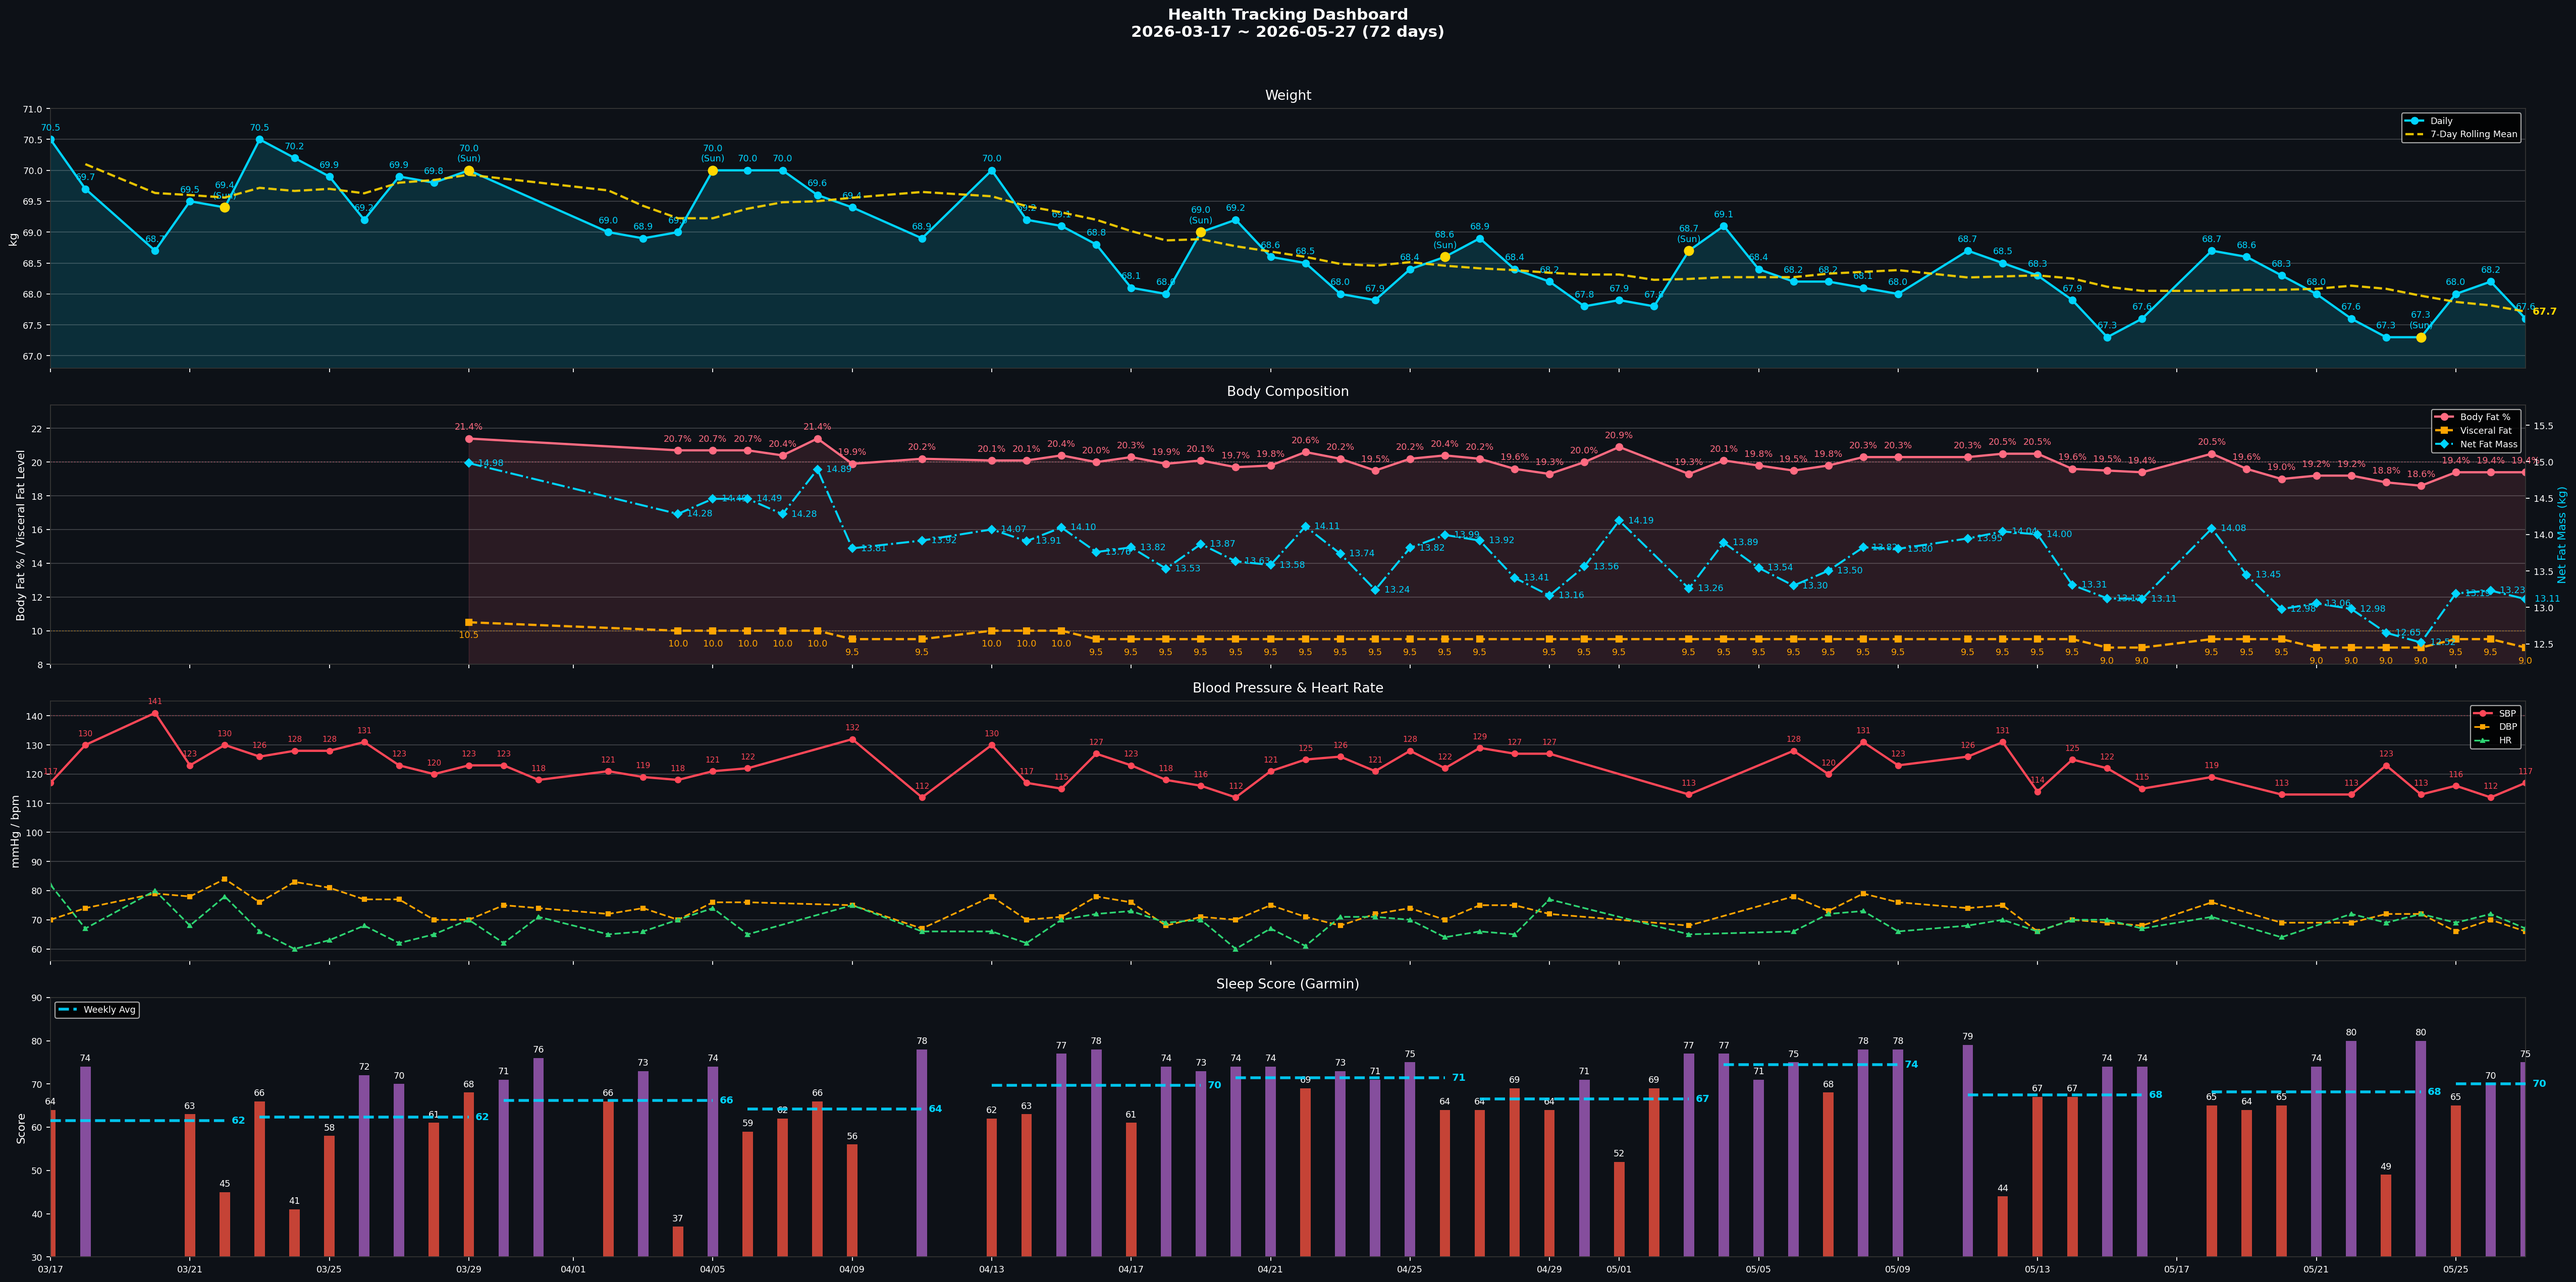
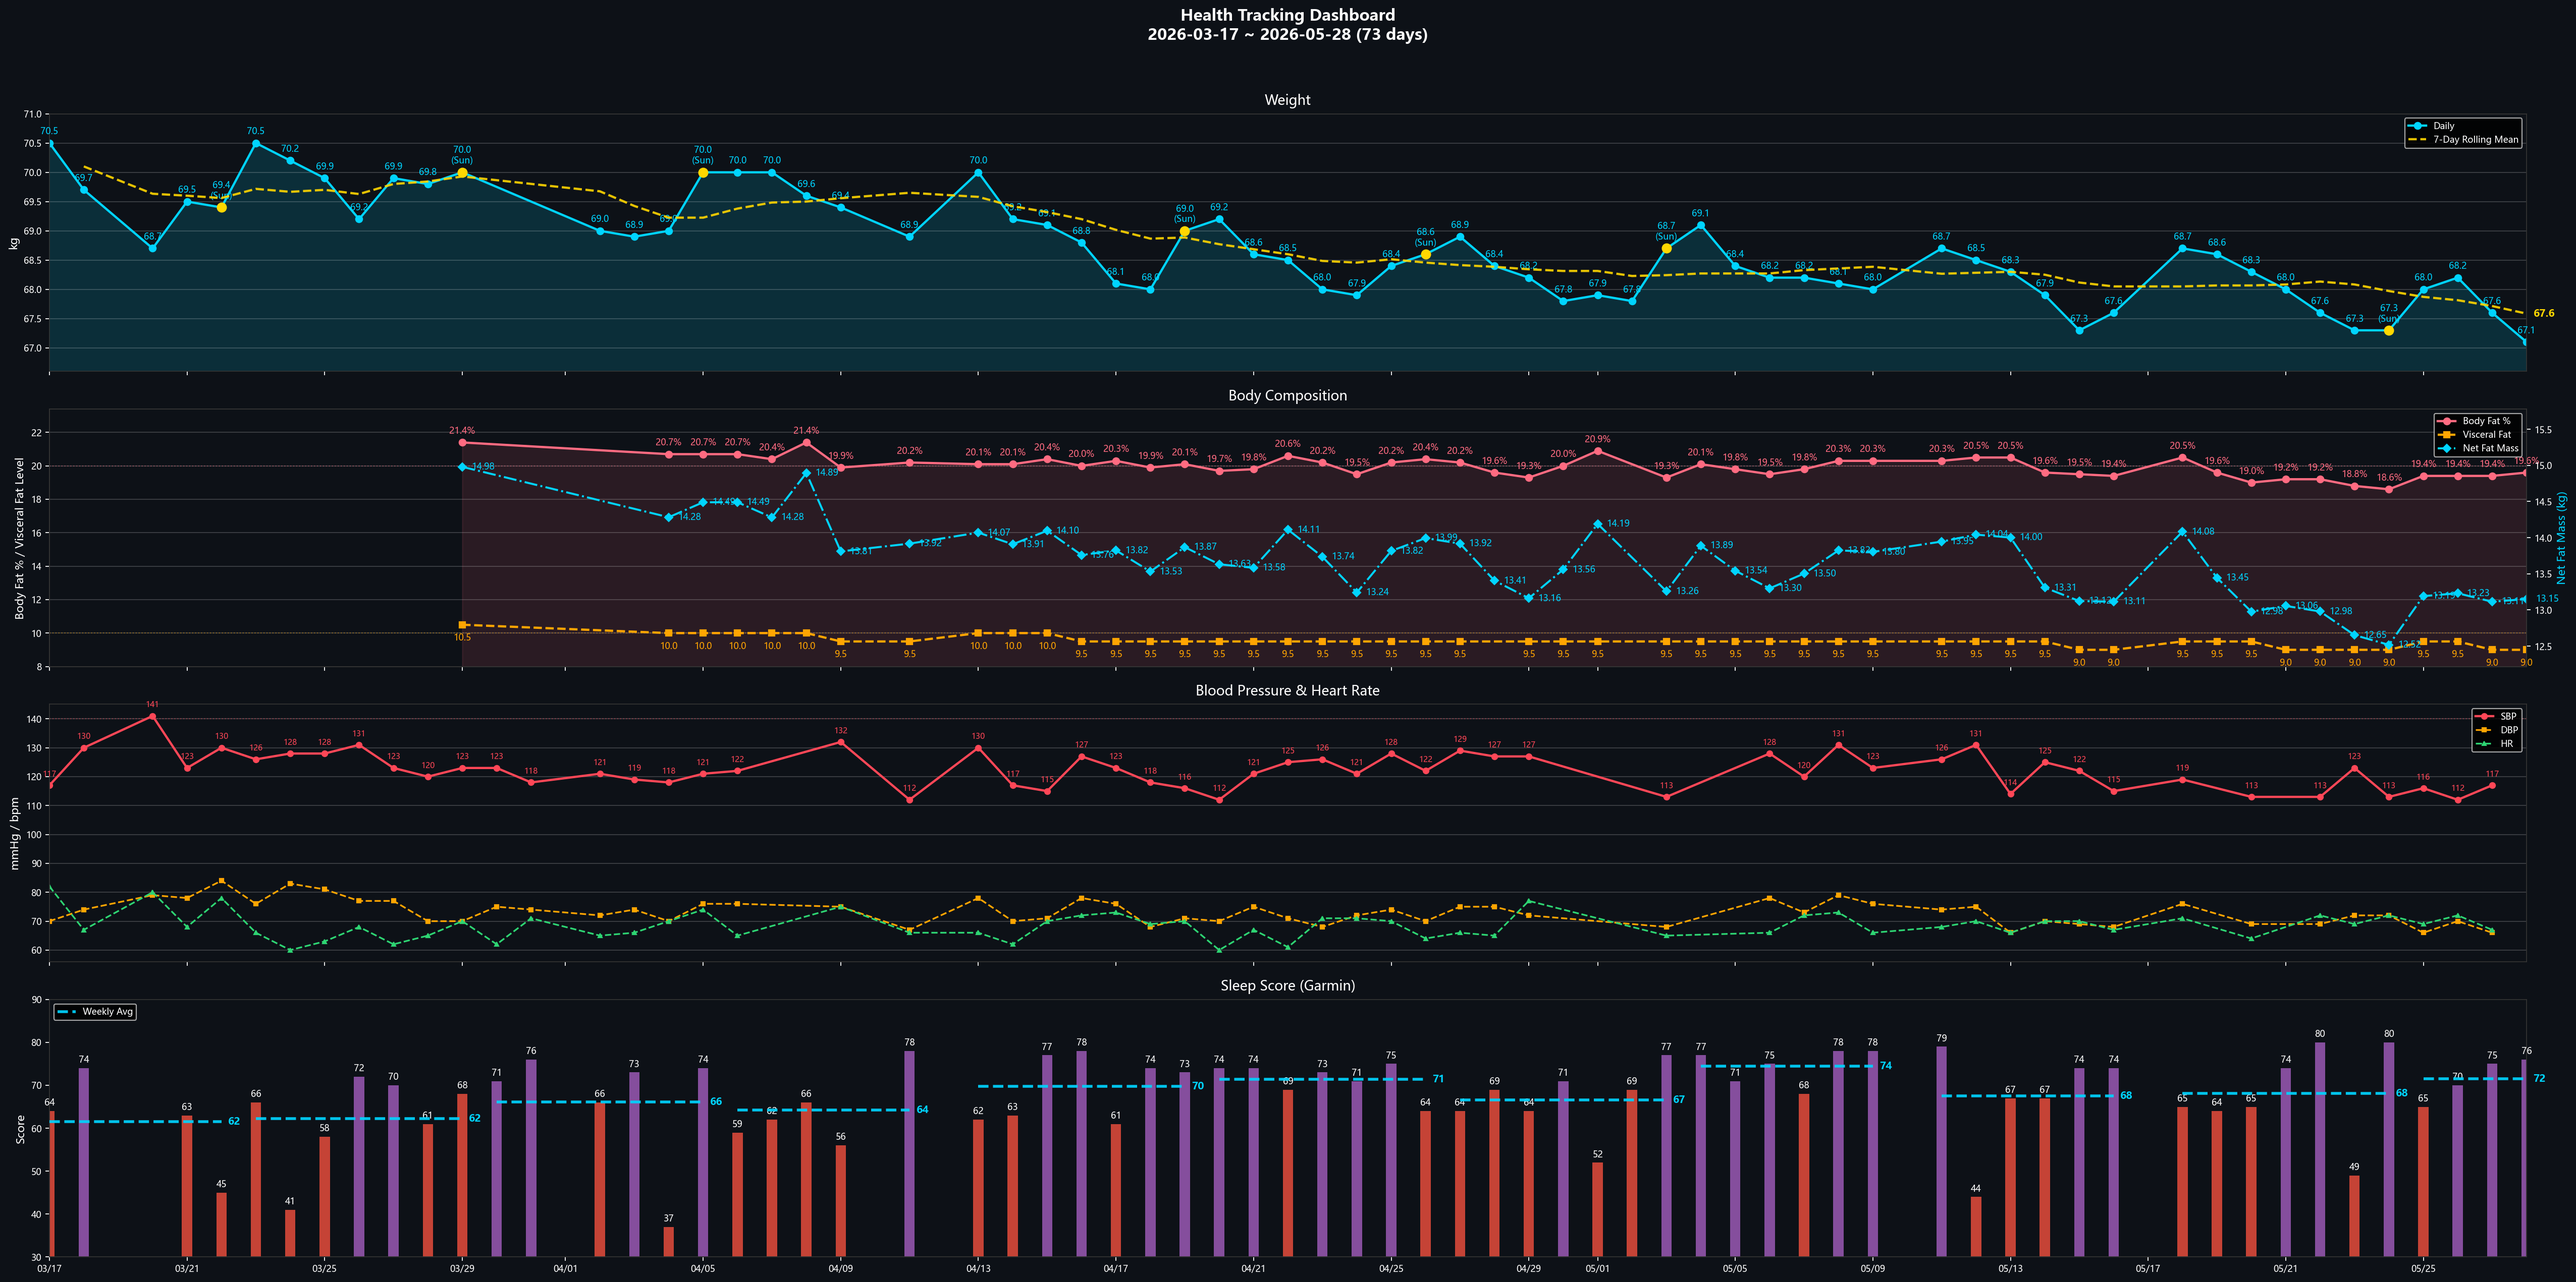
daily check-in 2026-05-28：體重67.1/體脂19.6、Sleep76、SpO2 nadir 95%(T90=0%) 連兩晚最佳
- 睡眠 7h1m、RHR 58、主觀恢復3/5、身體信號清
- SpO2連兩晚T90=0%，38晚最佳；7晚最低94/93/87/89/78/81/79
- 未量血壓；昨日飲水1.20L、活動112kcal
- 更新 W22 weekly、dashboard、data.js

diff --git a/data.js b/data.js
@@ -14,8 +14,8 @@ window.HC_DATA = {
     lede:    { en: "Sleep, BP, lipids, uric acid — one shared metabolic root. Lifestyle stacks first; medication only after lifestyle plateaus.",
                zh: "睡眠、血壓、血脂、尿酸——共享同一個代謝根源。生活方式介入優先，等到效果平台期再考慮藥物。" },
     progressLbl: { en: "Weight progress · 70 → 65 kg", zh: "體重進度 · 70 → 65 公斤" },
-    progressMeta: { en: "Day 72 · 67.3 kg · Sat official (5/23)", zh: "第 72 天 · 67.3 公斤 · 週六正式（5/23）" },
-    startDate: { en: "Start date · Mar 17, 2026 · Last sync 5/27", zh: "起始日期 · 2026 年 3 月 17 日 · 最後同步 5/27" },
+    progressMeta: { en: "Day 73 · 67.3 kg · Sat official (5/23)", zh: "第 73 天 · 67.3 公斤 · 週六正式（5/23）" },
+    startDate: { en: "Start date · Mar 17, 2026 · Last sync 5/28", zh: "起始日期 · 2026 年 3 月 17 日 · 最後同步 5/28" },
     startWeight: 70,
     targetWeight: 65,
     currentWeight: 67.3,
@@ -50,7 +50,7 @@ window.HC_DATA = {
     },
     {
       sys: "sleep", name: { en: "Sleep Score", zh: "睡眠分數" },
-      val: "75", unit: "Garmin",
+      val: "76", unit: "Garmin",
       delta: { en: "5/4 · OSA flag: T90 18.4% (severe)", zh: "5/4 · OSA 紅旗：T90 18.4%（重度）" },
       cadence: { en: "Daily · Garmin", zh: "每日 · Garmin" },
       status: "warn",
@@ -918,14 +918,14 @@ window.HC_DATA = {
   tracker: {
     // [SBP, DBP] — gaps filled with prior reading
     bp: [
-      [114,66], [125,70], [122,69], [115,68], [119,76], [119,76], [113,69], [113,69], [113,69], [123,72], [113,72], [116,66], [112,70], [117,66],
+      [125,70], [122,69], [115,68], [119,76], [119,76], [113,69], [113,69], [113,69], [123,72], [113,72], [116,66], [112,70], [117,66], [117,66],
     ],
     // daily weight (kg)
-    weight: [68.3, 67.9, 67.3, 67.6, 68.7, 68.6, 68.3, 68, 67.6, 67.3, 67.3, 68, 68.2, 67.6],
+    weight: [67.9, 67.3, 67.6, 68.7, 68.6, 68.3, 68, 67.6, 67.3, 67.3, 68, 68.2, 67.6, 67.1],
     // Garmin Sleep Score
-    sleep:  [67, 67, 74, 74, 65, 64, 65, 74, 80, 49, 80, 65, 70, 75],
+    sleep:  [67, 74, 74, 65, 64, 65, 74, 80, 49, 80, 65, 70, 75, 76],
     // Body Battery waking
-    bb:     [42, 34, 51, 63, 48, 62, 54, 61, 56, 34, 59, 55, 53, 64],
+    bb:     [34, 51, 63, 48, 62, 54, 61, 56, 34, 59, 55, 53, 64, 59],
     // SpO2 nightly nadir % (last 14 days, parallel to bp/weight/sleep/bb).
     // Earlier nights null until sync_data_js.py backfills; banner only uses trailing values.
     spo2Nadir: [null, null, null, null, null, 84, 79, 87, 85, 84, 84, 86, 82, 84],

diff --git a/reviews/daily/2026-05-28.md b/reviews/daily/2026-05-28.md
@@ -1,0 +1,103 @@
+# 晨間健康紀錄 — 2026-05-28
+
+*3 分鐘。起床後立即完成。記錄，不分析。*
+
+---
+
+## 體重 / 體組成
+
+**今日：67.1 kg**
+**體脂率：19.6 %**
+**內臟脂肪等級：9.0**
+**腰圍 (WHO midpoint)：— cm**（最下肋骨下緣 + 髂嵴頂端兩點水平中點環繞，通常在肚臍上方 2-5 cm；**與健檢歷史可比**；目標維持 ≤ 83、推進至 < 80 cm）
+**腰圍 (最大腹圍)：— cm**（自然站立、吐氣末、不收腹，軟尺上下移動找最大讀數；通常在肚臍 0 至 -4 cm；**對內臟脂肪變化最敏感**）
+
+*每週六早晨為正式體重紀錄（排尿後、進食前；連 5 個工作日後、週末大餐前的真實低點）。其他日可選填。*
+*腰圍每日量（起床排尿後、進食前）。量兩個位置（WHO + max），方向應一致；若差距 > 3 cm 持續，考慮以 max 為主追蹤指標。*
+*WHO midpoint：科學標準，國健署 / 健檢 / metabolic syndrome 診斷用；最大腹圍：內臟脂肪 visceral fat correlation 最強。*
+
+---
+
+## 血壓（晨間）
+
+*起床後 1 小時內，上完廁所、進食前。坐下安靜 5 分鐘，連量兩次取第二次。*
+
+| 次數 | 收縮壓 | 舒張壓 | 心率 |
+|------|--------|--------|------|
+| 第一次 | | | |
+| 第二次 | 今日未量 | | |
+
+---
+
+## 睡眠狀態
+
+**Garmin 偵測入睡：** 21:27
+**實際上床：**
+**實際起床：** 05:13
+**中途醒來：** 無
+**Garmin Sleep Score：** 76 / 100
+**Garmin Body Battery 起床值：** 59
+**主觀恢復感：** 3 / 5（1=極度疲憊, 5=精力充沛）
+**入睡 latency：** —
+
+### SpO2 夜間最低（7 晚趨勢）
+
+| 日期 | -6 | -5 | -4 | -3 | -2 | -1 | 今晨 |
+|------|----|----|----|----|----|----|------|
+| 日期 | 05-22 | 05-23 | 05-24 | 05-25 | 05-26 | 05-27 | 05-28 |
+| 最低 % | 79 | 81 | 78 | 89 | 87 | 93 | 94 |
+
+**今晨日均 SpO2：** 97.0%
+**< 88% 連續晚數：** 0（OSA 紅旗門檻：連 3 晚 < 88% → 強烈建議 PSG）
+
+**SpO2 全夜圖（含 hypnogram 條帶）：** ![spo2](spo2/spo2_desat_2026-05-28.png)
+**SpO2 趨勢圖：** ![trend](spo2/spo2_desat_trend.png)
+**SpO2 全夜 Heatmap（28+ 晚 Venu 4 cohort）：** ![heatmap](spo2/spo2_heatmap_all_nights.png)
+**SpO2 × 睡眠分期 7 晚疊圖：** ![hypno7](spo2/spo2_hypnogram_7night_2026-05-28.png)
+
+*Sleep Score < 65 或 Body Battery < 50 連續三天 → 重新檢視睡眠修復方案。*
+
+---
+
+## 昨日回顧
+
+**實際飲水量：** 1.20 L（目標 ≥ 2.5L；高尿酸最佳 2.8–3.0L；17:00 前完成 60-70%）
+**昨日活動消耗：** 112 kcal（主動 + BMR；自動讀自 Garmin daily summary 活動區塊）
+  - > 300 kcal → 今日可彈性增加 200-300 kcal 攝取
+  - < 100 kcal → 今日加強運動（補一段 Zone 2 走路 30 分）
+**昨日 Na / K / Na-K ratio：** — mg / — mg / —（無 food 紀錄檔）
+  - Na/K < 0.5 ✅ / 0.5-0.6 🟢 / 0.6-0.8 🟡 / > 0.8 🟠（INTERSALT 1988）
+  - 連 3 天 ≥ 0.8 → 首選減鈉（自煮蛋取代茶葉蛋 −440 mg）或加 K（香蕉 +422 mg）
+
+---
+
+## 身體信號
+
+*任何張力、疼痛、疲勞、異常 — 或「清」。記位置、性質、強度。*
+
+| 部位 | 性質 | 強度 (0-10) |
+|------|------|-------------|
+| 清 | — | 0 |
+
+---
+
+## 今日計畫速記
+
+- [ ] 飲水目標：2.5 L（建議 2.5–3.0L；錨點 09:30 ≥1.0L / 13:30 ≥2.0L / 17:00 截止 2.5L）
+- [ ] 補充品（核心，2026-05-11 v2）：如常
+  - 早餐（06:00）：D3 2000 IU + **K2 MK-7 180 mcg** + **L-Citrulline 4 g** + 益生菌
+  - 午餐前 30 min：Psyllium 5 g + 350 mL 水
+  - 晚餐前 30 min：Psyllium 5 g + 350 mL 水
+  - 晚餐後：魚油 ×4（拆 18:30 ×2 + 19:30 ×2）
+  - 睡前（21:00）：鎂甘胺酸 400 mg + 酸櫻桃 1000-2000 mg + **Glycine 純粉 3 g**
+  - 茶飲：洛神花 ×2 杯（早 + 14:00 前）
+  - 食物層：南瓜籽 30 g（15:30）+ **菇蕈 100-130 g/天**（午 30-50 + 晚 50-80）
+  - ⏸ 待定：NAC 600 mg × 2（待 PSG 結果）
+- [ ] 運動（17:00 固定）：走路（Zone 2，30 分）
+- [ ] 活動度/伸展（09:30 + 20:30 兩次錨點）
+- [ ] Wind-down（20:00 燈光降 + 螢幕濾鏡，液體截止）
+- [ ] 上床 21:30 / 熄燈 22:00（TST 目標 7h+）
+
+---
+
+*Filed: reviews/daily/2026-05-28.md*

diff --git a/reviews/weekly/2026-W22.md b/reviews/weekly/2026-W22.md
@@ -31,9 +31,9 @@
 
 |  | 一 | 二 | 三 | 四 | 五 | 六 | 日 |
 |--|----|----|----|----|----|----|-----|
-| 體重 (kg) | 68.0 | 68.2 | 67.6 | | | | |
-| 體脂率 (%) | 19.4 | 19.4 | 19.4 | | | | |
-| 內臟脂肪 | 9.5 | 9.5 | 9.0 | | | | |
+| 體重 (kg) | 68.0 | 68.2 | 67.6 | 67.1 | | | |
+| 體脂率 (%) | 19.4 | 19.4 | 19.4 | 19.6 | | | |
+| 內臟脂肪 | 9.5 | 9.5 | 9.0 | 9.0 | | | |
 | **腰圍 WHO (cm)** | | | | | | | |
 | **腰圍 max (cm)** | | | | | | | |
 
@@ -72,7 +72,7 @@
 | 05-25 (一) | 21:43 | 05:13 | 無 | 65 | 55 | 3 |
 | 05-26 (二) | 21:40 | 04:19 | 2次+ | 70 | 53 | 3 |
 | 05-27 (三) | 21:35 | 03:52 | 1次 | 75 | 64 | 3 |
-| 05-28 (四) | | | | | | |
+| 05-28 (四) | 21:27 | 05:13 | 無 | 76 | 59 | 3 |
 | 05-29 (五) | | | | | | |
 | 05-30 (六) | | | | | | |
 | 05-31 (日) | | | | | | |
@@ -100,7 +100,7 @@
 
 | 信號（部位+性質） | 出現天數 | 平均強度 | 趨勢（↑↓→） | 備註 |
 |-------------------|----------|----------|-------------|------|
-| 清 | 3 | — | → | 05-25、05-26、05-27 無不適 |
+| 清 | 4 | — | → | 05-25、05-26、05-27、05-28 無不適 |
 
 **反覆出現（≥ 3 天）：** 無
 
@@ -126,6 +126,7 @@
 | 05-25 (一) | 重訓 |
 | 05-26 (二) | 有氧 |
 | 05-27 (三) | 步行/散步 |
+| 05-28 (四) | 走路（Zone 2，30 分）|
 
 ---
 

diff --git a/reports/daily-garmin/2026-05-27.md b/reports/daily-garmin/2026-05-27.md
@@ -6,15 +6,16 @@
 - 深眠：80 分｜REM：58 分
 - Sleep Score：75
 - Body Battery 起床值：64
+- 估算上床：21:26｜入睡 latency：9 分（範圍 9–35 分）
 
 ## 靜息心率
 - RHR：60.0 bpm
 
 ## 壓力
-- 日均：23
+- 日均：29
 
 ## 步數
-- 總計：135
+- 總計：10,082
 
 ## SpO2
 - 日均：97.0%
@@ -24,10 +25,12 @@
 | 時段 | 類型 | 距離 | 時長 | 平均 HR | 最大 HR | 主動 kcal | 含 BMR |
 |------|------|------|------|---------|---------|-----------|--------|
 | 09:00 | cycling | 0.93 km | 4.9 min | 131 | 151 | 40 | 46 |
+| 12:49 | walking | 0.56 km | 10.5 min | 109 | 129 | 52 | 66 |
+| **小計** | 2 段 | **1.49 km** | **15.4 min** | — | — | **92** | **112** |
 
 ## 飲水
-- 實際：0.00 L
+- 實際：1.20 L
 - 目標：2.00 L
-- 運動流汗耗水：0.08 L
+- 運動流汗耗水：0.23 L
 
 _Source: data/garmin/2026-05-27.json (gitignored)_

diff --git a/reports/daily-garmin/2026-05-28.md b/reports/daily-garmin/2026-05-28.md
@@ -1,0 +1,33 @@
+# Garmin 每日摘要 — 2026-05-28
+
+## 睡眠
+- 就寢：21:27｜起床：05:13
+- 總時長：7h 1m
+- 深眠：110 分｜REM：79 分
+- Sleep Score：76
+- Body Battery 起床值：59
+
+## 靜息心率
+- RHR：58.0 bpm
+
+## 壓力
+- 日均：26
+
+## 步數
+- 總計：2,673
+
+## SpO2
+- 日均：97.0%
+- 最低：94%
+
+## 活動
+| 時段 | 類型 | 距離 | 時長 | 平均 HR | 最大 HR | 主動 kcal | 含 BMR |
+|------|------|------|------|---------|---------|-----------|--------|
+| 08:59 | cycling | 1.03 km | 4.9 min | 140 | 150 | 45 | 51 |
+
+## 飲水
+- 實際：0.00 L
+- 目標：2.00 L
+- 運動流汗耗水：0.08 L
+
+_Source: data/garmin/2026-05-28.json (gitignored)_
